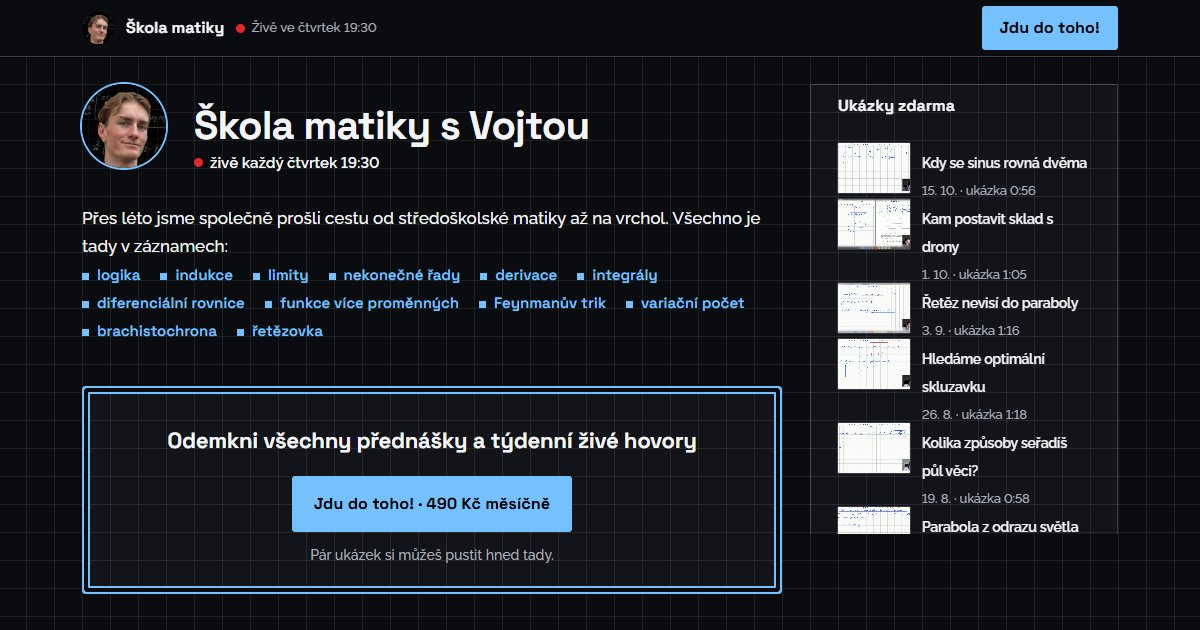
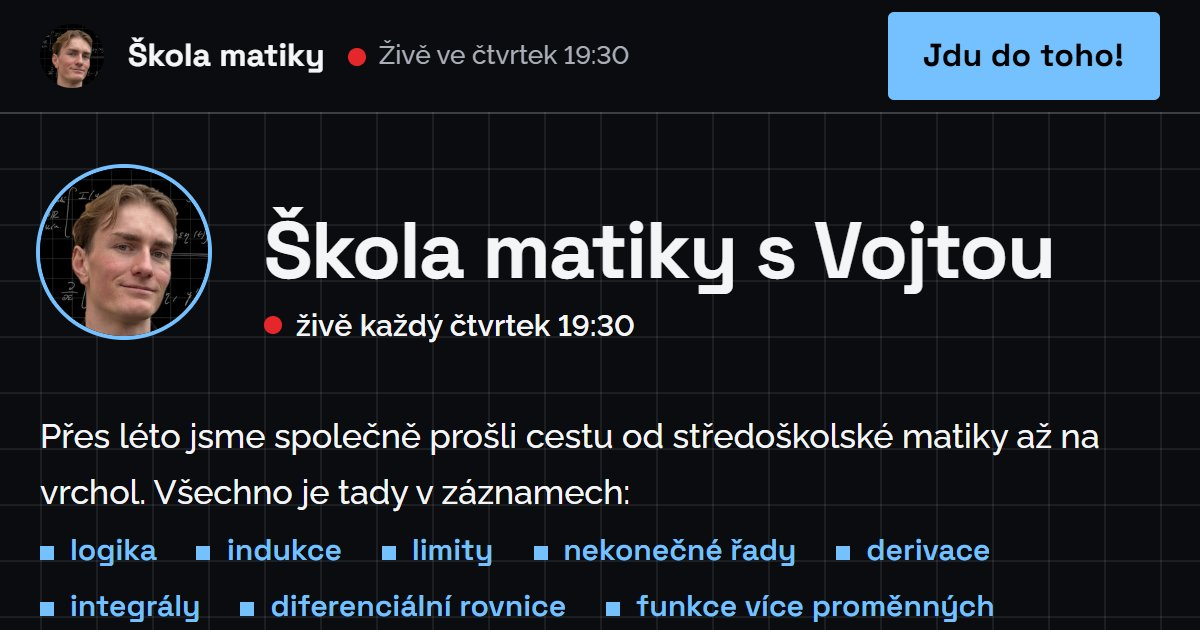
Náhled odkazu zblízka

Changed region(s): [[0.0, 0.0, 1.0, 0.9952], [0.555, 0.754, 0.5858, 0.7841]]

diff --git a/index.html b/index.html
@@ -17,7 +17,7 @@
 <meta property="og:title" content="Baví tě matika, ale pořád nevíš, kde začít?">
 <meta property="og:description" content="Místo, kde matiku vezmeš od začátku a kde u ní zůstaneš. Živě každý čtvrtek od 19:30.">
 <meta property="og:url" content="https://skola.vojtakloud.com/">
-<meta property="og:image" content="https://skola.vojtakloud.com/media/nahled-odkazu.jpg">
+<meta property="og:image" content="https://skola.vojtakloud.com/media/nahled-odkazu.jpg?v=25319fac">
 <meta property="og:image:width" content="1200">
 <meta property="og:image:height" content="630">
 <meta name="twitter:card" content="summary_large_image">
